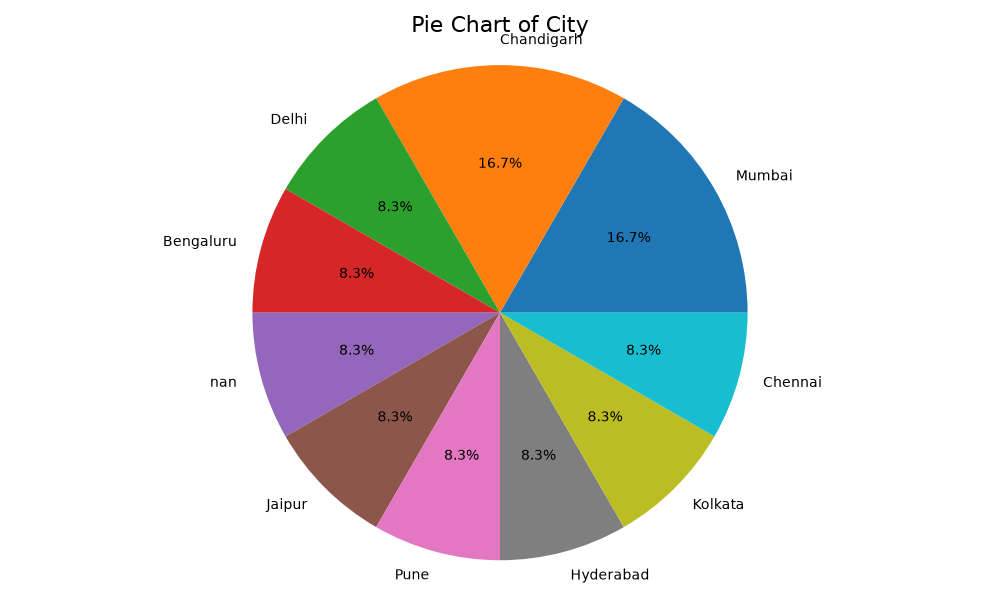
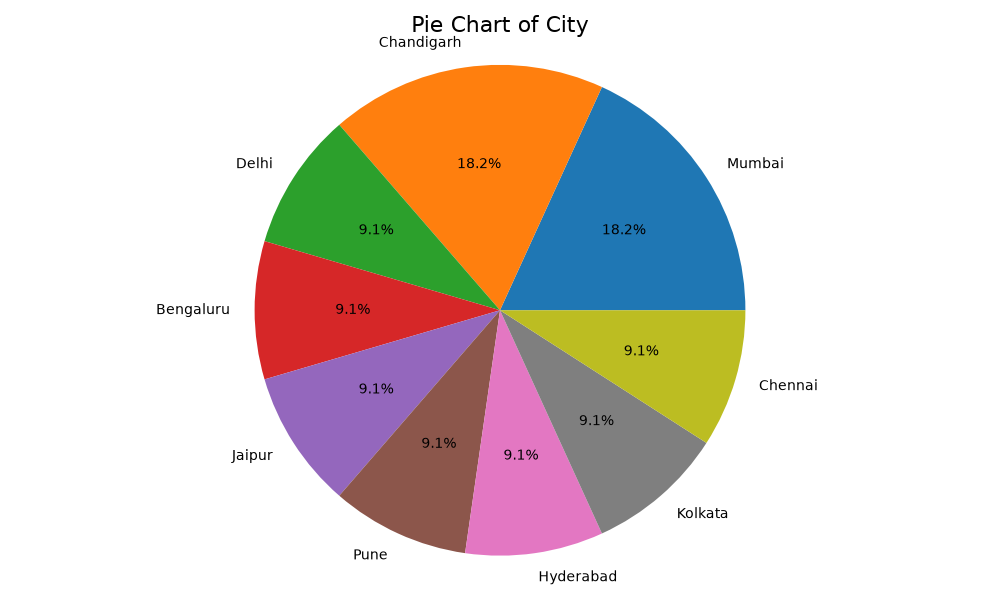
Fix missing values in pie chart

diff --git a/app.py b/app.py
@@ -719,7 +719,7 @@ def show_piechart():
             piechart_image=None
         )
 
-    counts = df[selected_column].value_counts(dropna=False)
+    counts = df[selected_column].dropna().value_counts()
     plt.figure(figsize=(10,6))
     plt.pie(counts.values, labels=counts.index,  autopct="%1.1f%%")
     plt.title(f"Pie Chart of {selected_column}", fontsize=16)
